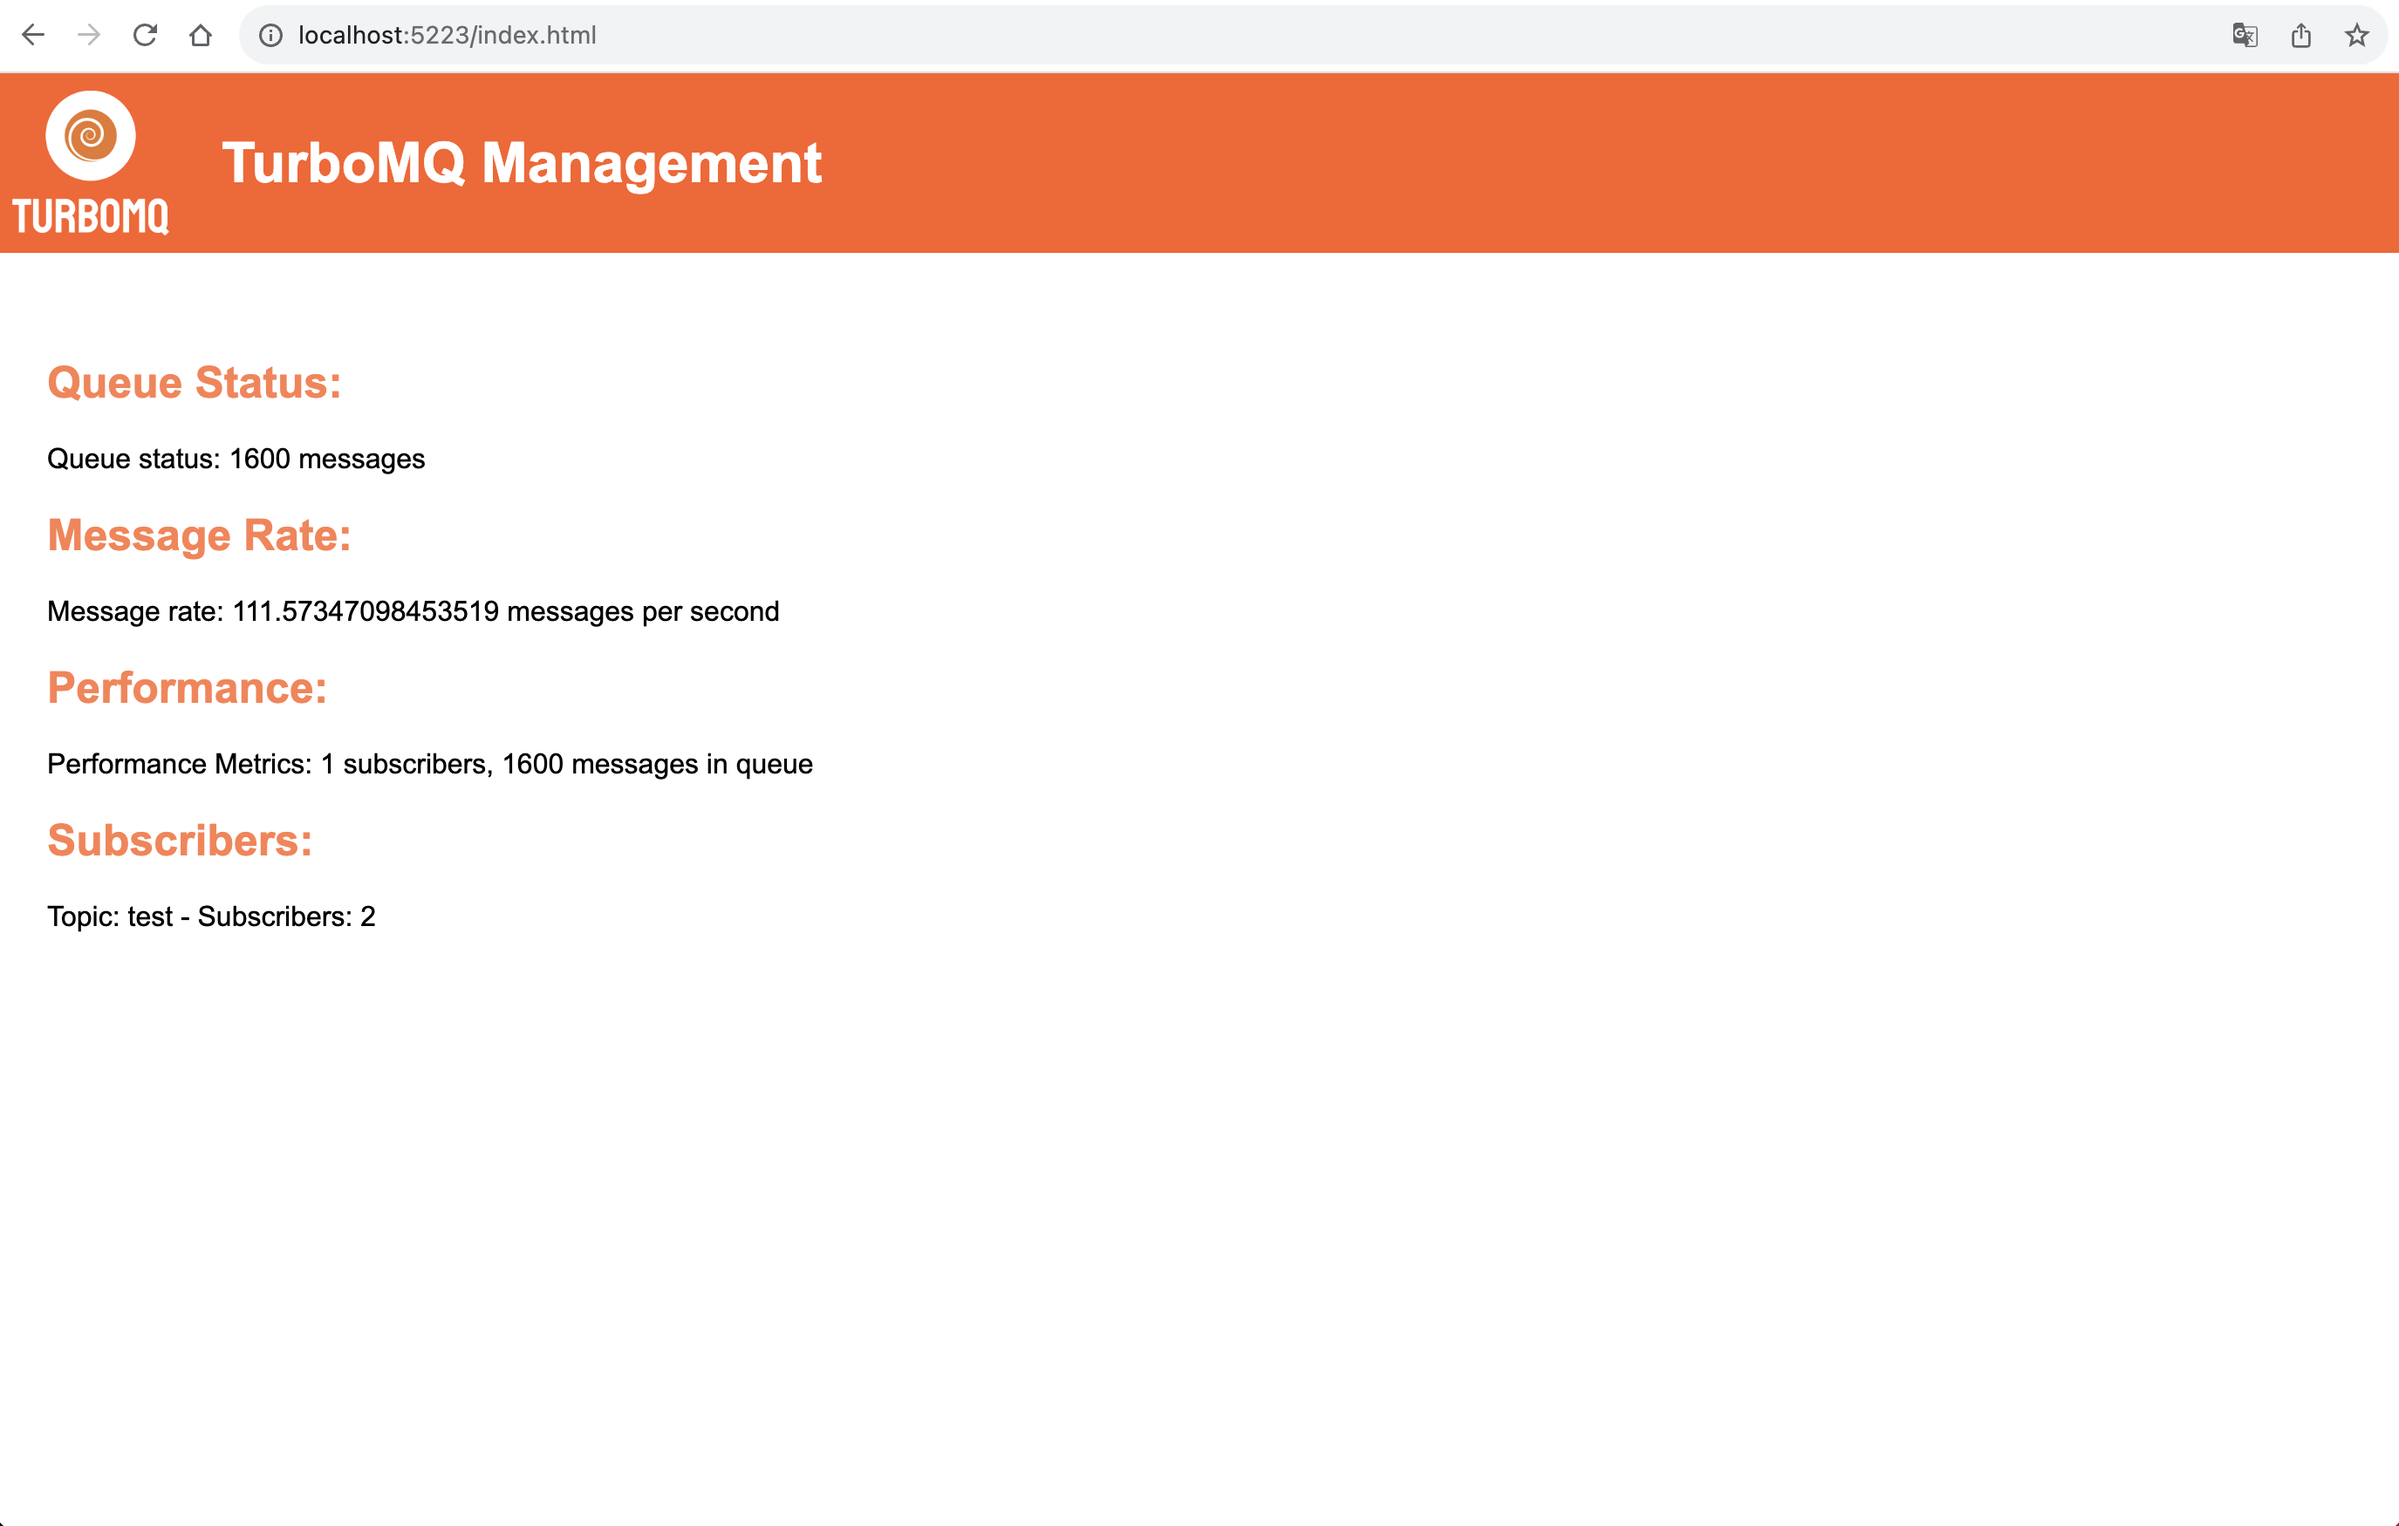
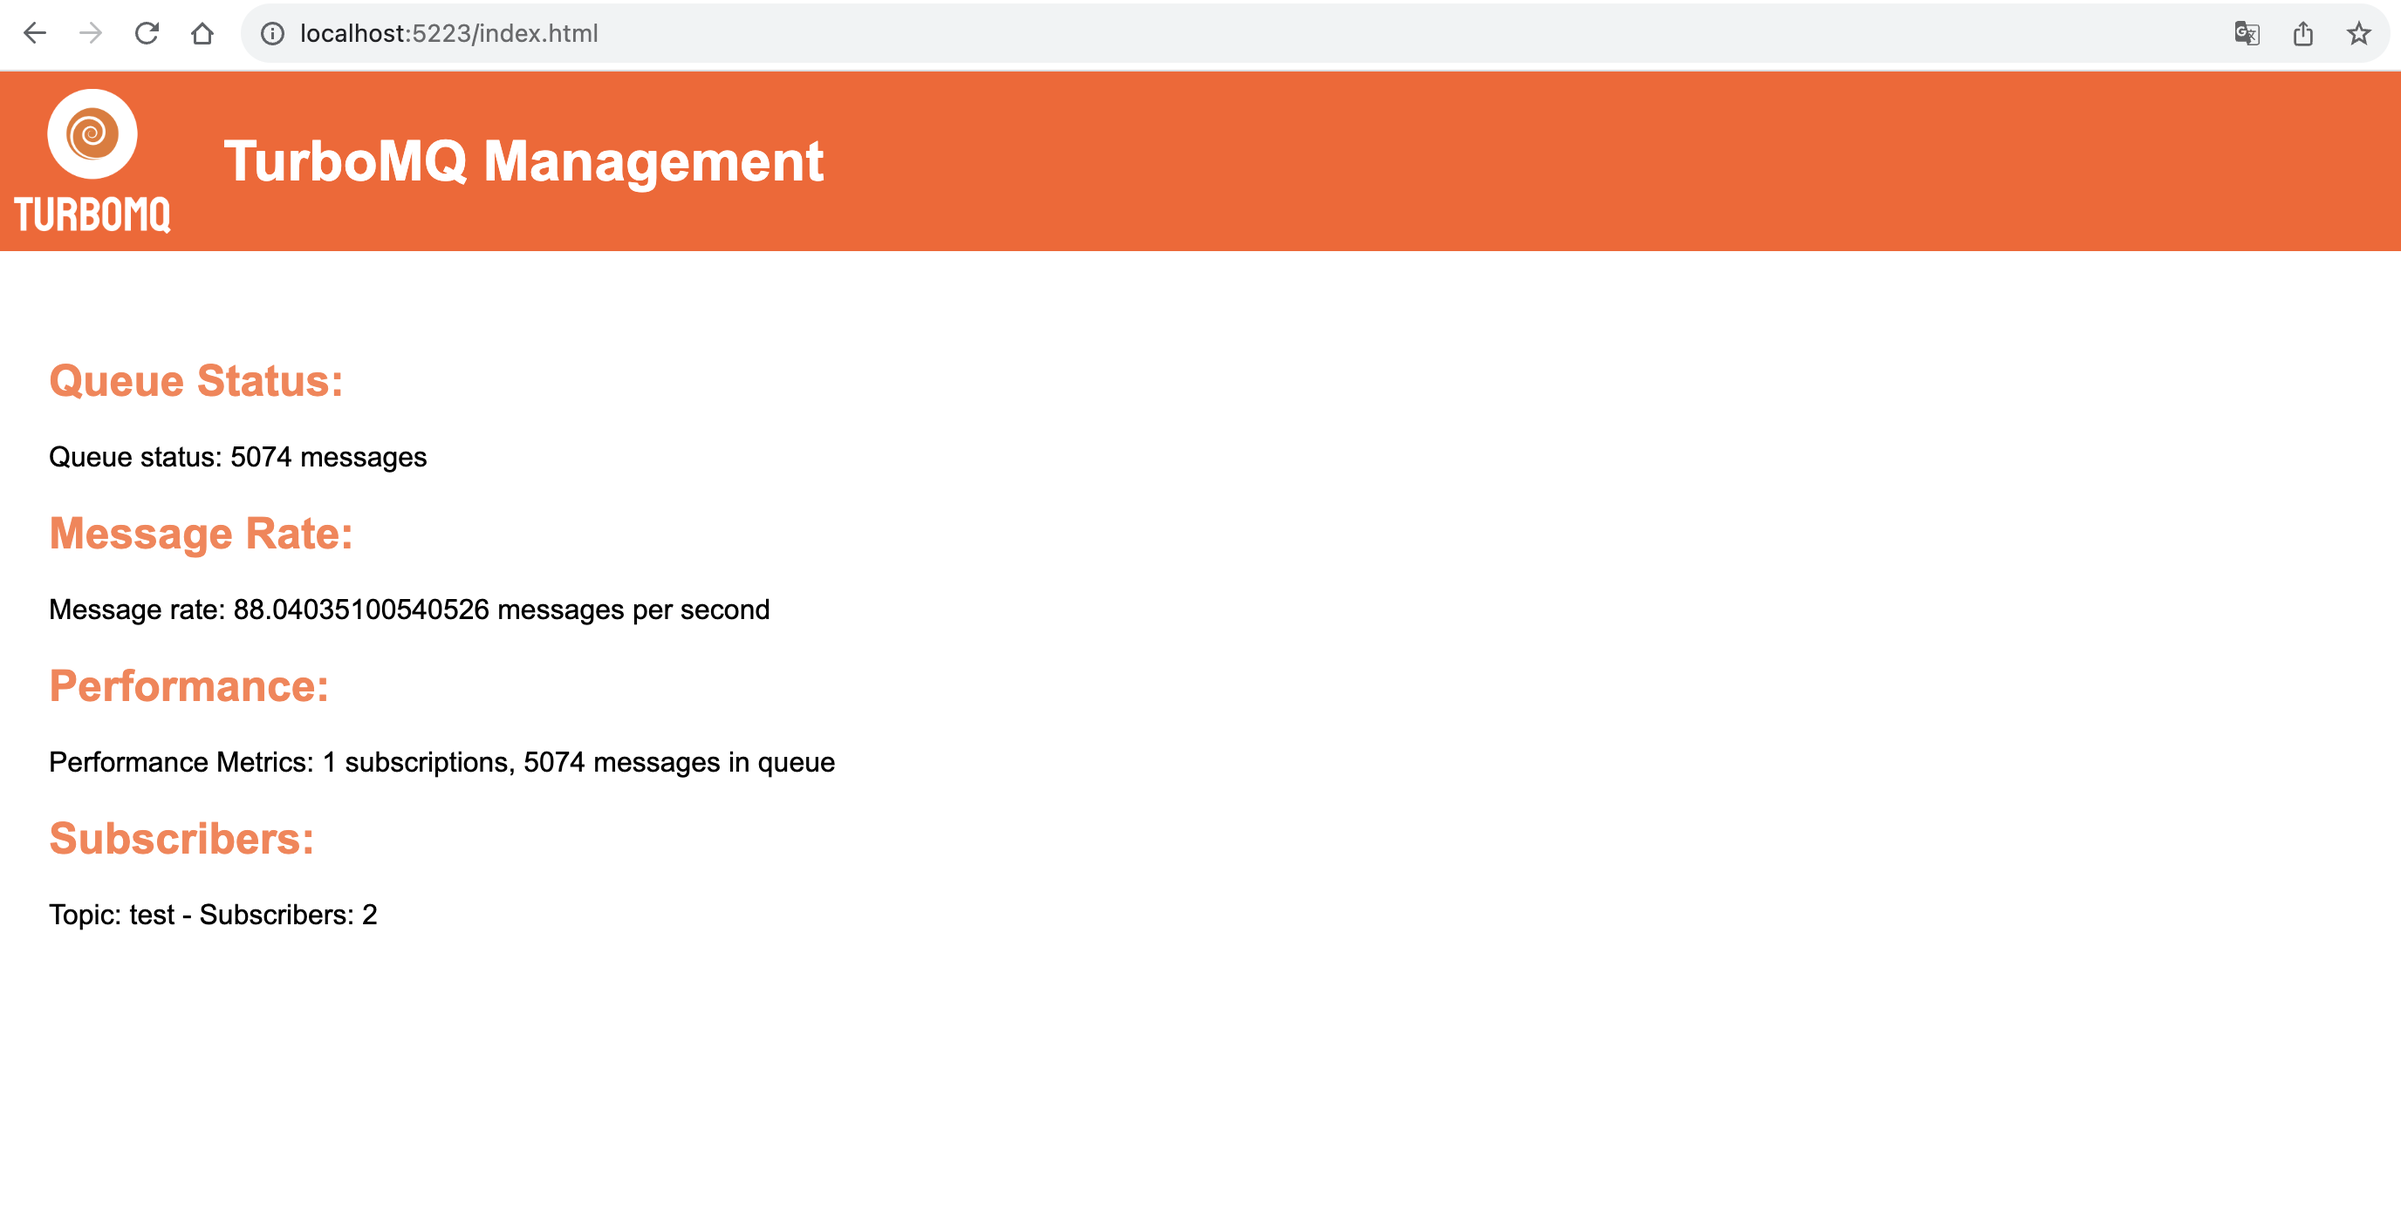
update readme

diff --git a/MQserver/Program.cs b/MQserver/Program.cs
@@ -216,7 +216,7 @@ public class MessageQueueServer
         }
         else if (command.StartsWith("MONITOR_PERFORMANCE"))
         {
-            response = $"Performance Metrics: {_subscriptions.Count} subscribers, {_messageQueue.Count} messages in queue";
+            response = $"Performance Metrics: {_subscriptions.Count} subscriptions, {_messageQueue.Count} messages in queue";
             Console.WriteLine(response);
         }
         else
